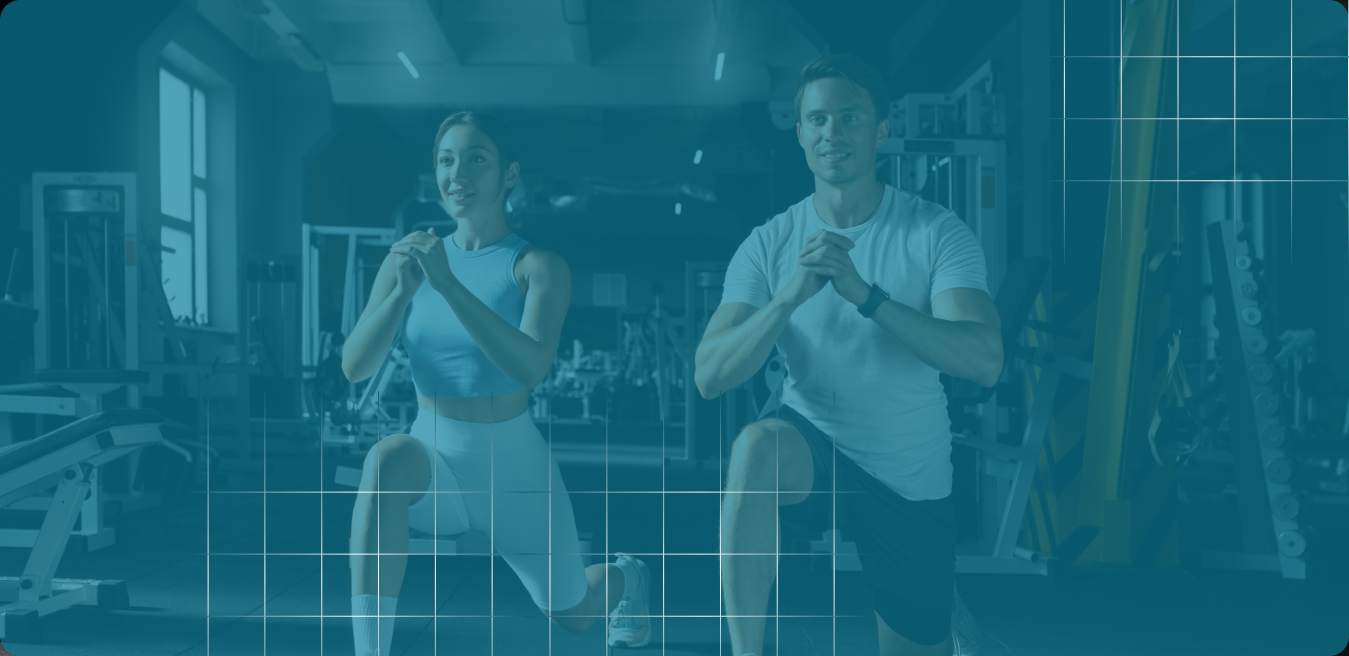
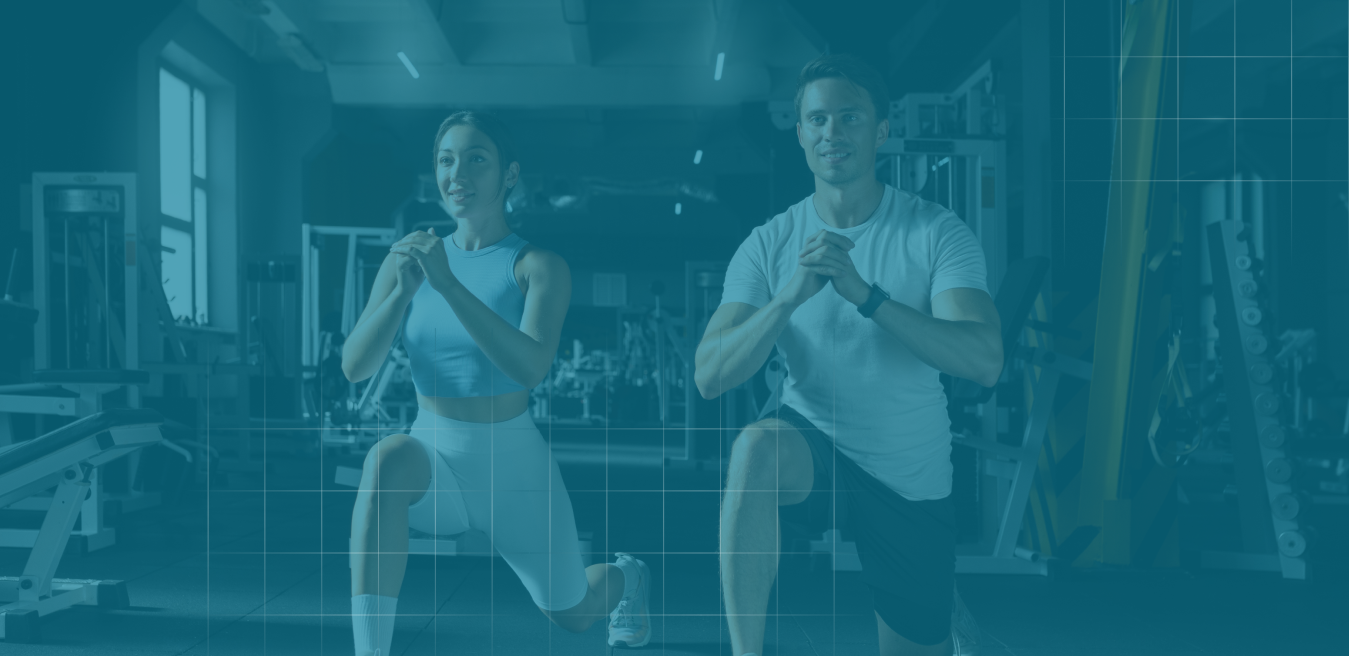
requirements file

diff --git a/static/style.css b/static/style.css
@@ -9,32 +9,25 @@
 }
 
 .navbar {
+
     background-color: #FFE5D9;
-    padding: 20px 30px;
-    background-color:blue;
+    list-style-type:none;
+    margin:0;
+    padding: 0;
+    gap: 35px;
+    display: flex;
+    padding: 20px 0;
+    padding-left: 40px;
     
 }
 
 .navbar-logo {
     height:30px;
 }
-.navbar ul {
-    list-style-type:none;
-    margin:0;
-    padding: 0;
-    display: flex;
-    gap: 23px;
-    background-color:pink;
 
-}
 
-.navbar-text ul {
-    display:flex;
-
-}
 
 .navbar-text ul li a{
-    flex-direction: row;
 }
 
 
@@ -42,10 +35,23 @@
 
 }
 
-.navbar ul li a{
+.navbar {
+    display: flex;
+}
+
+.navbar-text {
+    padding-top:6px;
+    list-style-type:none;
+    display: flex;
+    gap:22px;
+}
+
+.navbar li a{
+    font-size:14.5px;
     text-decoration:none;
     color:#F6664B;
-    display:block;
+    flex-direction: row;
+
 }
 
 .navbar li a:hover {
@@ -54,9 +60,119 @@
 
 /* --------HOME--------- */
 .home-container {
+    background-color: transparent;
     background-image: url("img/header-img.png");
     background-repeat: no-repeat;
     background-size:cover;
-    background-position:top;
-    border-radius: 15px;
+    background-position:middle;
+    border-radius: 12px;
+    padding: 0 30px;
+    padding-top:80px;
+    padding-bottom: 30px;
+    margin: 0 10px;
+    margin-bottom: 25px;
+}
+
+.header-text {
+    color: #FFE5D9;
+    background-color: transparent;
+    font-weight:500;
+    padding-bottom: 20px;
+    font-size: 30px;
+}
+
+.try-button {
+    background-color: #F6664B;
+    
+    border: 2px solid transparent;
+    background:
+        linear-gradient(to left, #F14B2B, #FFA2A2) padding-box,
+        linear-gradient(to right, #F6664B, #FFA2A2) border-box;
+
+    color: #FFF7F3;
+    border-radius: 50px;
+    padding:6px 20px;
+    font-size:14.5px;
+    
+}
+
+.about-container {
+    padding-top:40px;
+    display:flex;
+    flex-direction:row;
+    margin:0 45px;
+    /* display: grid;
+    grid-template-columns: 1fr 1fr; */
+}
+
+.about-image {
+    padding-left:60px;
+    margin-top:-38px;
+    /* height:auto;
+    background-image: url("img/FSquares.png");
+    background-repeat: no-repeat;
+    background-size:cover;
+    background-color: blue; */
+    width: 46vw;
+    /* overflow-x: hidden; */
+}
+
+.about-image img{
+    /* height:400px; */
+    width: 46vw;
+    height: auto;
+    object-fit:cover;
+    position: relative;
+    left:-80px;
+    /* float:left; */
+    /* margin-left:-70px; */
+}
+
+.about-text {
+    width: 54vw;
+}
+
+.about-text h1{
+    font-size:30px;
+}
+
+.about-text h2{
+    font-size:14.5px;
+    padding-top: 20px;
+}
+
+.about-text p{
+    font-size:12px;
+    margin-top:5px;
+    margin-right:40px;
+    margin-bottom:15px;
+    /* background-color:pink; */
+}
+
+.red-box {
+    border: 2px solid #F6664B;
+    border-radius: 12px;
+    padding: 10px 20px;
+    margin-top:11px;
+    /* width:38vw; */
+    display: inline-block;
+    /* background-color: rgb(149, 218, 180); */
+    
+    
+
+}
+
+.red-box p{
+    font-size:14.5px;
+    color: #F6664B;
+    margin:0;
+    
+}
+
+.numberBigger{
+    font-size:14.5px;
+    color: #F6664B;
+    padding-right:4px;
+    font-weight:bold;
+    /* background-color:rgb(129, 129, 233); */
 }

diff --git a/templates/base.html b/templates/base.html
@@ -10,16 +10,14 @@
     <title>{% block title%}Fitamis{% endblock %}</title>
 </head>
 <body>
-    <div class="navbar">
-        <ul>
-            <li><img src="../static/img/logo.png" class="navbar-logo"alt="Fitamis logo"></li>
-            <div class="navbar-text">
-                <li><a href="#Home">Home</a></li>
-                <li><a href="#About">About</a></li>
-                <li><a href="#Try">Try It!</a></li>
-            </div>
+    <ul class="navbar">
+        <li><img src="../static/img/logo.png" class="navbar-logo"alt="Fitamis logo"></li>
+        <ul class="navbar-text">
+            <li><a href="#Home">Home</a></li>
+            <li><a href="#About">About</a></li>
+            <li><a href="#Try">Try It!</a></li>
         </ul>
-    </div>
+    </ul>
     {% block content %}
     {% endblock %}
 </body>

diff --git a/templates/index.html b/templates/index.html
@@ -3,14 +3,14 @@
 {% block content %}
     <section id="Home">
         <div class="home-container">
-            <h1>Record your Fitness,<br>Compete with Friends<br>With Fitamis.</h1>
-            <button type="button" class="try-button"><a href="#Try">Try It!</a></button>
+            <h1 class="header-text">Record your Fitness,<br>Compete with Friends<br>With Fitamis.</h1>
+            <a href="#Try"></a><button type="button" class="try-button">Try It!</button></a>
         </div>
     </section>
     <section id="About">
         <div class="about-container">
             <div class="about-image">
-
+                <img src="../static/img/FSquares.png" alt="Squares forming an 'F'">
             </div>
             <div class="about-text">
                 <h1>About Fitamis</h1>

diff --git a/app.py b/app.py
@@ -4,7 +4,7 @@ app = Flask(__name__)
 @app.route('/')
 def home():
     return render_template('index.html')
- 
+
 if __name__ == "__main__":
     app.run(debug=True)
 
